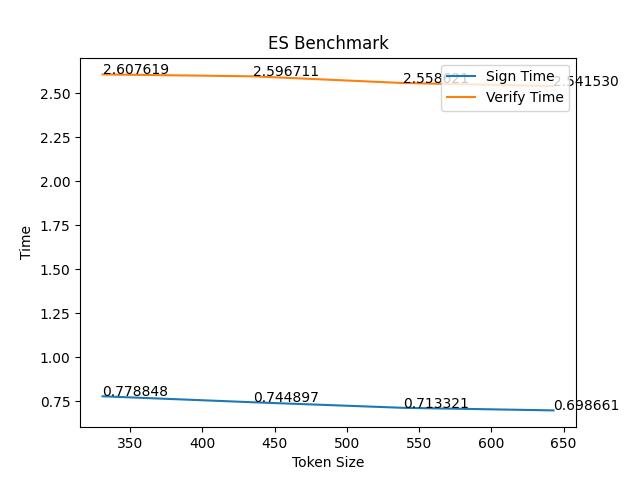
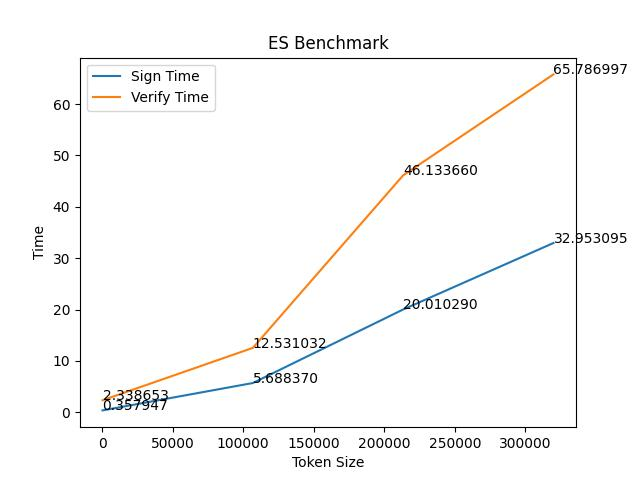
commit

diff --git a/benchmark/rs_benchmark.py b/benchmark/rs_benchmark.py
@@ -3,82 +3,74 @@ import time as t
 from cryptography.hazmat.backends import default_backend
 from cryptography.hazmat.primitives.asymmetric import rsa
 from cryptography.hazmat.primitives.serialization import Encoding, PublicFormat
-import sys
 import matplotlib.pyplot as plot
 
 def create_key_list():
-   private_key_list = []
-   for i in range(0, 10000):
-      private_key = rsa.generate_private_key(
-            public_exponent=65537,
-            key_size=2048,
-            backend=default_backend()
-      )
-      private_key_list.append(private_key)
-   return private_key_list
+   private_key = rsa.generate_private_key(
+         public_exponent=65537,
+         key_size=2048,
+         backend=default_backend()
+   )
+   return private_key
 
 @staticmethod
-def sign_token_benchmark(private_key_list, scope):
-   result = []
+def sign_token_benchmark(private_key, scope):
+   output = []
    serialized_token_list = []
-   time = 0
+   token = SciToken(key=private_key, algorithm="RS256")
+   token.update_claims({"scope": scope})
+   starttime = t.time()
    for i in range(0, 10000):
-      key_id = "id" + str(i)
-      token = SciToken(key=private_key_list[i], algorithm="RS256", key_id=key_id)
-      token.update_claims({"scope": scope})
-      starttime = t.time()
       serialized_token = token.serialize(issuer="https://demo.scitokens.org")
-      endtime = t.time()
-      time += endtime - starttime
       serialized_token_list.append(serialized_token)
-   result.append(serialized_token_list)
-   result.append(time)
-   return result
+   endtime = t.time()
+   output.append(serialized_token_list)
+   output.append(endtime - starttime)
+   return output
 
-def verify_token_benchmark(serialized_token_list, private_key_list):
-   time = 0
+def verify_token_benchmark(serialized_token_list, private_key):
+   public_key = private_key.public_key()
+   pem = public_key.public_bytes(encoding=Encoding.PEM, format=PublicFormat.SubjectPublicKeyInfo)
+   starttime = t.time()
    for i in range(0, 10000):
-      public_key = private_key_list[i].public_key()
-      pem = public_key.public_bytes(encoding=Encoding.PEM, format=PublicFormat.SubjectPublicKeyInfo)
-      starttime = t.time()
       SciToken.deserialize(serialized_token_list[i], public_key=pem)
-      endtime = t.time()
-      time += endtime - starttime
-   return time
+   endtime = t.time()
+   return endtime - starttime
 
 def main():
    scope = "abcdefghijklmnopqrstuvwxyzabcdefghijklmnopqrstuvwxyzabcdefghijklmnopqrstuvwxyz"
-   
+   for i in range(0, 10):
+      scope += scope
    sign_time = []
    verify_time = []
-   token_size = [587, 691, 795, 899]
-
-   private_key_list = create_key_list()
-   result = sign_token_benchmark(private_key_list, scope)
+   token_size = [571, 107067, 213563, 320059]
+   
+   private_key = create_key_list()
+   result = sign_token_benchmark(private_key, "")
    sign_time.append(result[1])
-   verify_time.append(verify_token_benchmark(result[0], private_key_list))
+   verify_time.append(verify_token_benchmark(result[0], private_key))
 
-   private_key_list = create_key_list()
-   result = sign_token_benchmark(private_key_list, "")
+   private_key = create_key_list()
+   result = sign_token_benchmark(private_key, scope)
    sign_time.append(result[1])
-   verify_time.append(verify_token_benchmark(result[0], private_key_list))
+   verify_time.append(verify_token_benchmark(result[0], private_key))
 
-   private_key_list = create_key_list()
-   result = sign_token_benchmark(private_key_list, scope + scope)
+   private_key = create_key_list()
+   result = sign_token_benchmark(private_key, scope + scope)
    sign_time.append(result[1])
-   verify_time.append(verify_token_benchmark(result[0], private_key_list))
+   verify_time.append(verify_token_benchmark(result[0], private_key))
 
-   private_key_list = create_key_list()
-   result = sign_token_benchmark(private_key_list, scope + scope + scope)
+   private_key = create_key_list()
+   result = sign_token_benchmark(private_key, scope + scope + scope)
    sign_time.append(result[1])
-   verify_time.append(verify_token_benchmark(result[0], private_key_list))
+   verify_time.append(verify_token_benchmark(result[0], private_key))
 
    plot.title("RS Benchmark")
    plot.plot(token_size, sign_time, label='Sign Time')
    plot.plot(token_size, verify_time, label='Verify Time')
    plot.xlabel("Token Size")
    plot.ylabel("Time")
-   plot.legend(loc='upper right')
+   plot.legend(loc='upper left')
    for i, j in zip(token_size, sign_time):
       plot.annotate(str("{:.6f}".format(j)), xy=(i, j))
    for i, j in zip(token_size, verify_time):

diff --git a/benchmark/es_benchmark.py b/benchmark/es_benchmark.py
@@ -3,40 +3,35 @@ import time as t
 from cryptography.hazmat.backends import default_backend
 from cryptography.hazmat.primitives.asymmetric import ec
 from cryptography.hazmat.primitives.serialization import Encoding, PublicFormat
-import sys
 import matplotlib.pyplot as plot
 
-def create_key_list():
-   private_key_list = []
-   for i in range(0, 10000):
-      private_key = ec.generate_private_key(
-            ec.SECP256R1(),
-            backend=default_backend()
-      )
-      private_key_list.append(private_key)
-   return private_key_list
+def create_key():
+   private_key = ec.generate_private_key(
+         ec.SECP256R1(),
+         backend=default_backend()
+   )
+   return private_key
 
-def sign_token_benchmark(private_key_list, scope):
-   result = []
+def sign_token_benchmark(private_key, scope):
+   output = []
    serialized_token_list = []
-   key_id = "id"
-   token = SciToken(key=private_key_list[0], algorithm="ES256", key_id=key_id)
+   token = SciToken(key=private_key, algorithm="ES256")
    token.update_claims({"scope": scope})
    starttime = t.time()
    for i in range(0, 10000):
       serialized_token = token.serialize(issuer="https://demo.scitokens.org")
       serialized_token_list.append(serialized_token)
    endtime = t.time()
-   result.append(serialized_token_list)
-   result.append(endtime-starttime)
-   return result
+   output.append(serialized_token_list)
+   output.append(endtime-starttime)
+   return output
 
-def verify_token_benchmark(serialized_token_list, private_key_list):
-   public_key = private_key_list[0].public_key()
+def verify_token_benchmark(serialized_token_list, private_key):
+   public_key = private_key.public_key()
    pem = public_key.public_bytes(encoding=Encoding.PEM, format=PublicFormat.SubjectPublicKeyInfo)
    starttime = t.time()
    for i in range(0, 10000):
-      SciToken.deserialize(serialized_token_list[0], public_key=pem)
+      SciToken.deserialize(serialized_token_list[i], public_key=pem)
    endtime = t.time()
    return endtime - starttime
 
@@ -46,34 +41,34 @@ def main():
       scope += scope
    sign_time = []
    verify_time = []
-   token_size = [331, 435, 539, 643]
+   token_size = [330, 106826, 213322, 319818]
 
-   private_key_list = create_key_list()
-   result = sign_token_benchmark(private_key_list, "")
+   private_key = create_key()
+   result = sign_token_benchmark(private_key, "")
    sign_time.append(result[1])
-   verify_time.append(verify_token_benchmark(result[0], private_key_list))
+   verify_time.append(verify_token_benchmark(result[0], private_key))
 
-   private_key_list = create_key_list()
-   result = sign_token_benchmark(private_key_list, scope)
+   private_key = create_key()
+   result = sign_token_benchmark(private_key, scope)
    sign_time.append(result[1])
-   verify_time.append(verify_token_benchmark(result[0], private_key_list))
+   verify_time.append(verify_token_benchmark(result[0], private_key))
 
-   private_key_list = create_key_list()
-   result = sign_token_benchmark(private_key_list, scope + scope)
+   private_key = create_key()
+   result = sign_token_benchmark(private_key, scope + scope)
    sign_time.append(result[1])
-   verify_time.append(verify_token_benchmark(result[0], private_key_list))
+   verify_time.append(verify_token_benchmark(result[0], private_key))
 
-   private_key_list = create_key_list()
-   result = sign_token_benchmark(private_key_list, scope + scope + scope)
+   private_key = create_key()
+   result = sign_token_benchmark(private_key, scope + scope + scope)
    sign_time.append(result[1])
-   verify_time.append(verify_token_benchmark(result[0], private_key_list))
+   verify_time.append(verify_token_benchmark(result[0], private_key))
 
    plot.title("ES Benchmark")
    plot.plot(token_size, sign_time, label='Sign Time')
    plot.plot(token_size, verify_time, label='Verify Time')
    plot.xlabel("Token Size")
    plot.ylabel("Time")
-   plot.legend(loc='upper right')
+   plot.legend(loc='upper left')
    for i, j in zip(token_size, sign_time):
       plot.annotate(str("{:.6f}".format(j)), xy=(i, j))
    for i, j in zip(token_size, verify_time):

diff --git a/test.py b/test.py
@@ -1,0 +1,7 @@
+import time
+
+starttime = time.time()
+for i in range (1, 10000):
+   print(i)
+endtime = time.time()
+print(endtime - starttime)

diff --git a/benchmark/tempCodeRunnerFile.py b/benchmark/tempCodeRunnerFile.py
@@ -1,1 +1,1 @@
-y_token_benchmark(seria
+Info
